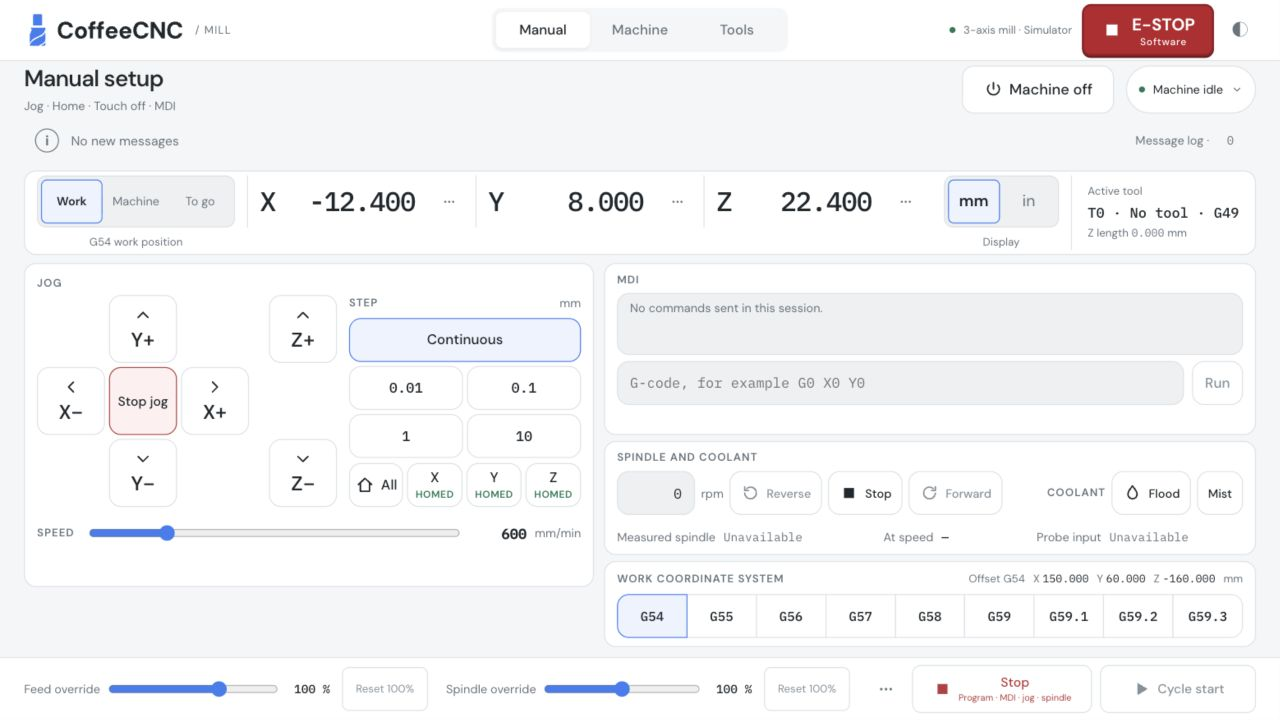
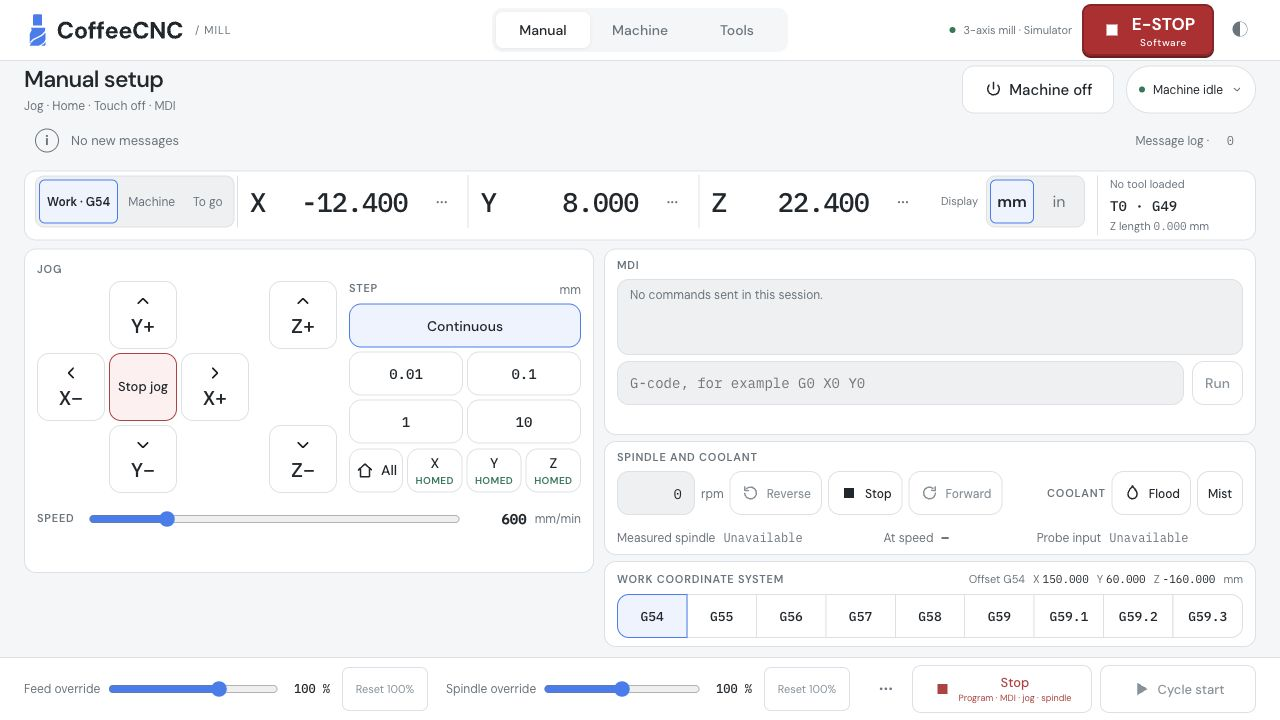
Keep coordinate labels and display units on one row

diff --git a/ui/src/components/DroPanel.vue b/ui/src/components/DroPanel.vue
@@ -73,9 +73,8 @@ watch([axes, touchBlock], () => {
   <section class="dro" :class="{ distrust: !live }" aria-label="Coordinate readout">
     <div class="basis">
       <div class="basis-options" role="group" aria-label="Coordinate display">
-        <button v-for="[value, label] in bases" :key="value" type="button" :aria-pressed="basis === value" @click="basis = value">{{ label }}</button>
+        <button v-for="[value, label] in bases" :key="value" type="button" :aria-pressed="basis === value" @click="basis = value">{{ label }}<template v-if="value === 'work'"> · {{ wcs }}<small v-if="shifted" class="g92">G92 active</small></template></button>
       </div>
-      <span>{{ basis === 'work' ? `${wcs} work position` : basis === 'machine' ? 'Machine position' : 'Distance to go' }}<template v-if="shifted && basis === 'work'"> · G92</template></span>
     </div>
     <div v-for="axis in axes" :key="axis.axis" class="axis-group">
       <button v-tooltip="touchBlock ?? `Touch off ${axis.axis.toUpperCase()} in ${wcs}`" class="axis" type="button" :disabled="touchBlock !== null || !Number.isFinite(axis.work)" :aria-label="`Touch off ${axis.axis.toUpperCase()} in ${wcs}`" @click="openTouchOff(axis)">
@@ -94,14 +93,15 @@ watch([axes, touchBlock], () => {
     </div>
     <span v-if="axes.length === 0" class="unavailable">Position unavailable</span>
     <div class="display-units">
+      <span>Display</span>
       <div class="units" role="group" aria-label="Display units">
         <button type="button" :aria-pressed="unit === 'mm'" @click="panel.unit = 'mm'">mm</button>
         <button type="button" :aria-pressed="unit === 'inch'" @click="panel.unit = 'inch'">in</button>
-      </div><span>Display</span>
+      </div>
     </div>
     <div v-if="panel.tab === 'manual'" class="active-tool" :class="{ stale: !live }" aria-label="Active tool and length compensation">
-      <span class="tool-heading">{{ live ? 'Active tool' : 'Last reported tool' }}</span>
-      <strong class="mono">{{ tool === undefined ? '—' : tool === 0 ? 'T0 · No tool' : `T${tool}` }} <span v-if="tool !== undefined">· {{ compensation }}</span></strong>
+      <span class="tool-heading">{{ !live ? 'Last reported tool' : tool === 0 ? 'No tool loaded' : 'Active tool' }}</span>
+      <strong class="mono">{{ tool === undefined ? '—' : `T${tool}` }} <span v-if="tool !== undefined">· {{ compensation }}</span></strong>
       <span class="tool-length">Z length <span class="mono">{{ toolLength === undefined ? '—' : formatLength(toolLength, unit) }}</span> {{ unit === 'inch' ? 'in' : 'mm' }}</span>
     </div>
     <NumberDialog v-if="touching !== null" :key="touching.key" :title="`Touch off ${touching.axis.toUpperCase()} in ${wcs}`" :effect="`Changes the ${wcs} work offset so that ${touching.axis.toUpperCase()} reads the value below at the present position. The machine does not move.`" :label="`${touching.axis.toUpperCase()} is now at`" :unit="unit" :initial="touching.initial" :action="`Set ${wcs} ${touching.axis.toUpperCase()}`" @confirm="touchOff" @close="touching = null" />
@@ -111,11 +111,12 @@ watch([axes, touchBlock], () => {
 
 <style scoped>
 .dro { display: flex; align-items: flex-start; flex: none; min-height: 78px; margin: 0 24px 10px; padding: 12px 0; border: 1px solid var(--line); border-radius: 12px; background: var(--panel); }
-.basis { display: flex; flex-direction: column; gap: 7px; width: 222px; flex: none; padding: 0 12px; text-align: center; }
+.basis { display: flex; width: 212px; flex: none; padding: 0 10px; text-align: center; }
 .basis-options { display: flex; padding: 3px; gap: 2px; border: 1px solid var(--line-strong); border-radius: 9px; background: var(--bg-sunken); }
 .basis-options button { flex: 1; min-height: 48px; padding: 0 7px; border: 1px solid transparent; border-radius: 6px; background: none; color: var(--text-dim); font-size: 12px; cursor: pointer; white-space: nowrap; }
 .basis-options button[aria-pressed="true"] { background: var(--accent-soft); border-color: var(--accent); color: var(--text); font-weight: 600; }
-.basis > span, .display-units > span { font-size: 11px; color: var(--text-dim); white-space: nowrap; }
+.g92 { display: block; font-size: 9px; line-height: 10px; color: var(--warn); }
+.display-units > span { font-size: 11px; color: var(--text-dim); white-space: nowrap; }
 .axis-group { display: flex; align-items: center; flex: 1 1 250px; min-width: 0; border-left: 1px solid var(--line); }
 .axis { display: flex; flex: 1; height: 56px; align-items: center; gap: 10px; min-width: 0; padding: 0 12px; border: 0; background: none; color: var(--text); text-align: left; cursor: pointer; }
 .axis-actions { position: relative; flex: none; margin-right: 4px; }.axis-actions summary { display: grid; place-items: center; width: 44px; height: 44px; border-radius: 7px; color: var(--text-dim); font-size: 20px; }.axis-actions summary:hover { background: var(--accent-soft); }.axis-actions .popover { top: calc(100% + 8px); right: 0; width: 190px; min-width: 190px; }.axis-actions .btn { width: 100%; justify-content: flex-start; margin-top: 6px; }
@@ -124,11 +125,11 @@ watch([axes, touchBlock], () => {
 .number, .letter { font-size: 27px; line-height: 1.3; letter-spacing: -1px; font-weight: 500; white-space: nowrap; }.marker { position: absolute; top: 100%; left: 0; height: 15px; line-height: 15px; white-space: nowrap; font-size: 10px; color: var(--warn); }
 .touch { display: flex; align-self: center; padding: 2px; color: var(--text-dim); }.axis:disabled .touch { opacity: .3; }
 .touch.hidden { visibility: hidden; }
-.units { display: flex; flex: none; gap: 3px; padding: 3px; margin: 0 12px; border: 1px solid var(--line-strong); border-radius: 9px; background: var(--bg-sunken); }
-.display-units { display: flex; flex: none; flex-direction: column; gap: 7px; text-align: center; }
-.units button { width: 52px; height: 48px; border: 1px solid transparent; border-radius: 6px; background: none; font-size: 16px; color: var(--text-dim); cursor: pointer; }
+.units { display: flex; flex: none; gap: 3px; padding: 3px; border: 1px solid var(--line-strong); border-radius: 9px; background: var(--bg-sunken); }
+.display-units { display: flex; flex: none; align-items: center; gap: 8px; margin: 0 12px; }
+.units button { width: 44px; height: 48px; border: 1px solid transparent; border-radius: 6px; background: none; font-size: 16px; color: var(--text-dim); cursor: pointer; }
 .units button[aria-pressed="true"] { background: var(--accent-soft); border-color: var(--accent); color: var(--text); font-weight: 600; }
-.active-tool { display: flex; flex: 0 0 174px; flex-direction: column; justify-content: center; align-self: stretch; gap: 3px; margin-left: auto; padding: 0 16px; border-left: 1px solid var(--line); white-space: nowrap; }
+.active-tool { display: flex; flex: 0 0 158px; flex-direction: column; justify-content: center; align-self: stretch; gap: 3px; margin-left: auto; padding: 0 12px; border-left: 1px solid var(--line); white-space: nowrap; }
 .tool-heading, .tool-length { color: var(--text-dim); font-size: 11px; }.active-tool strong { font-size: 14px; font-weight: 500; }.active-tool.stale strong { color: var(--text-faint); }
 .distrust .number { color: var(--text-faint); }.unavailable { flex: 1; color: var(--text-dim); }
 @media (max-height: 820px) { .dro { min-height: 70px; padding-block: 8px; margin-bottom: 8px; } }
